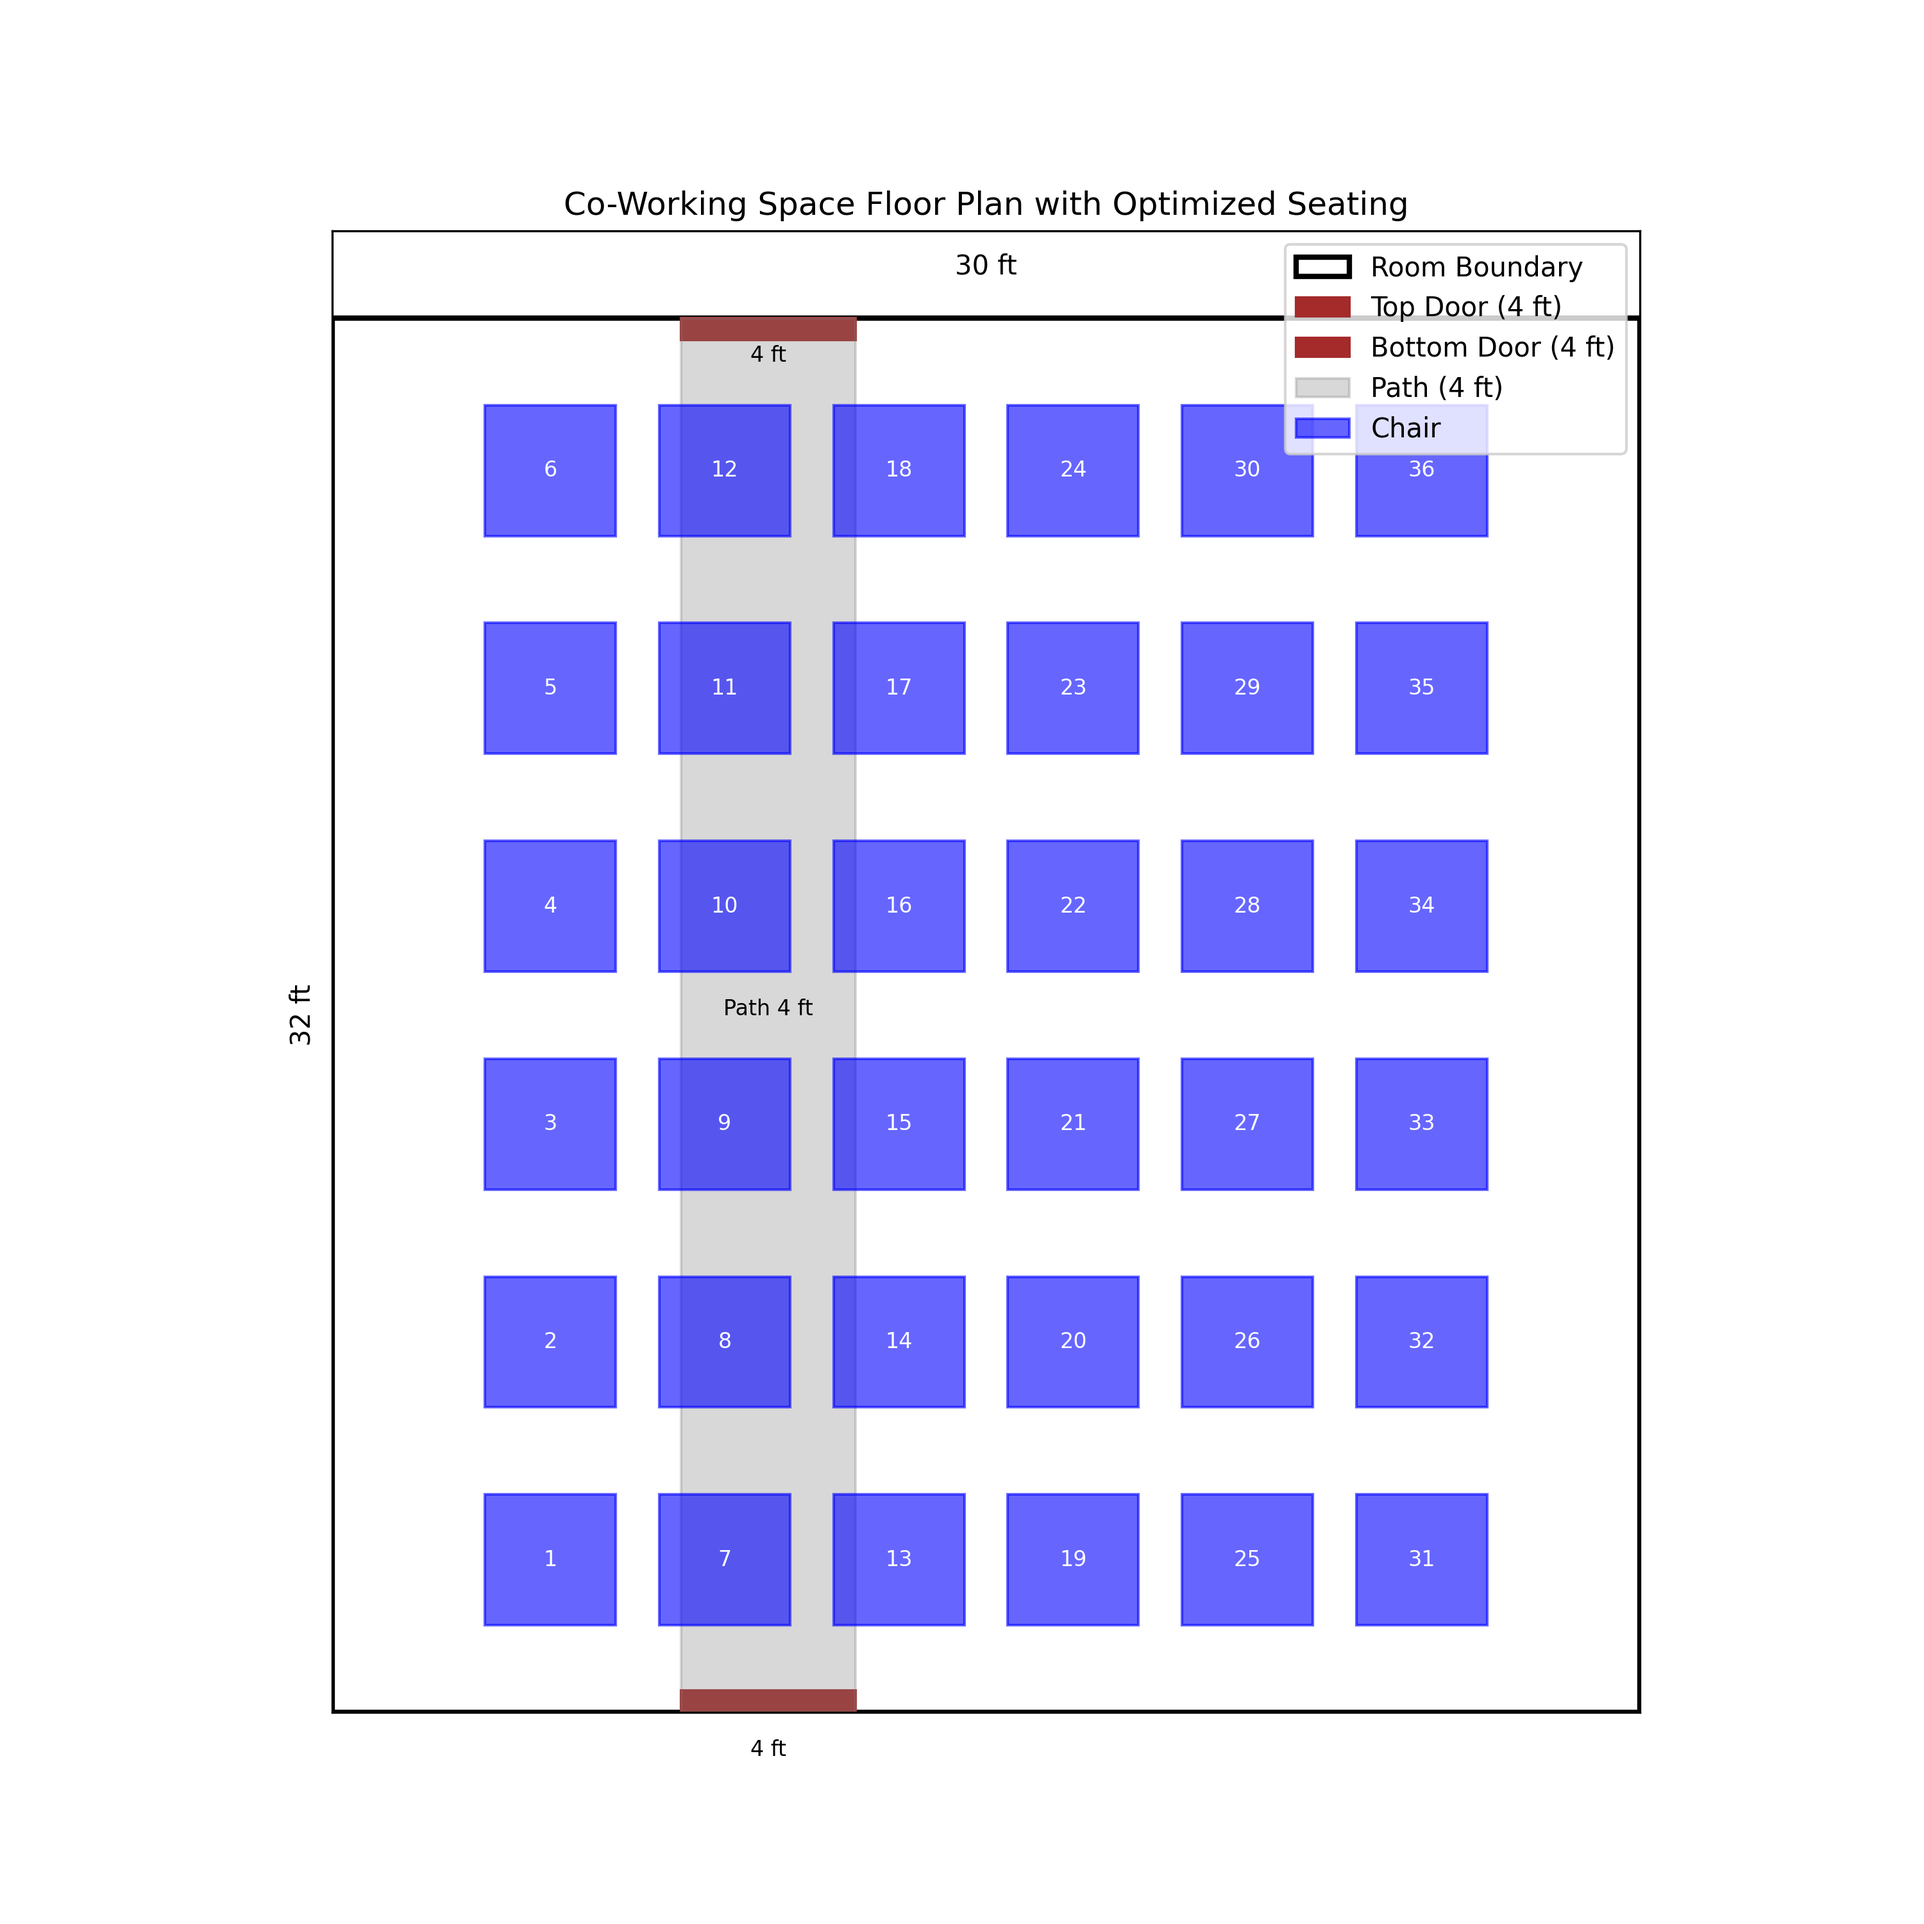
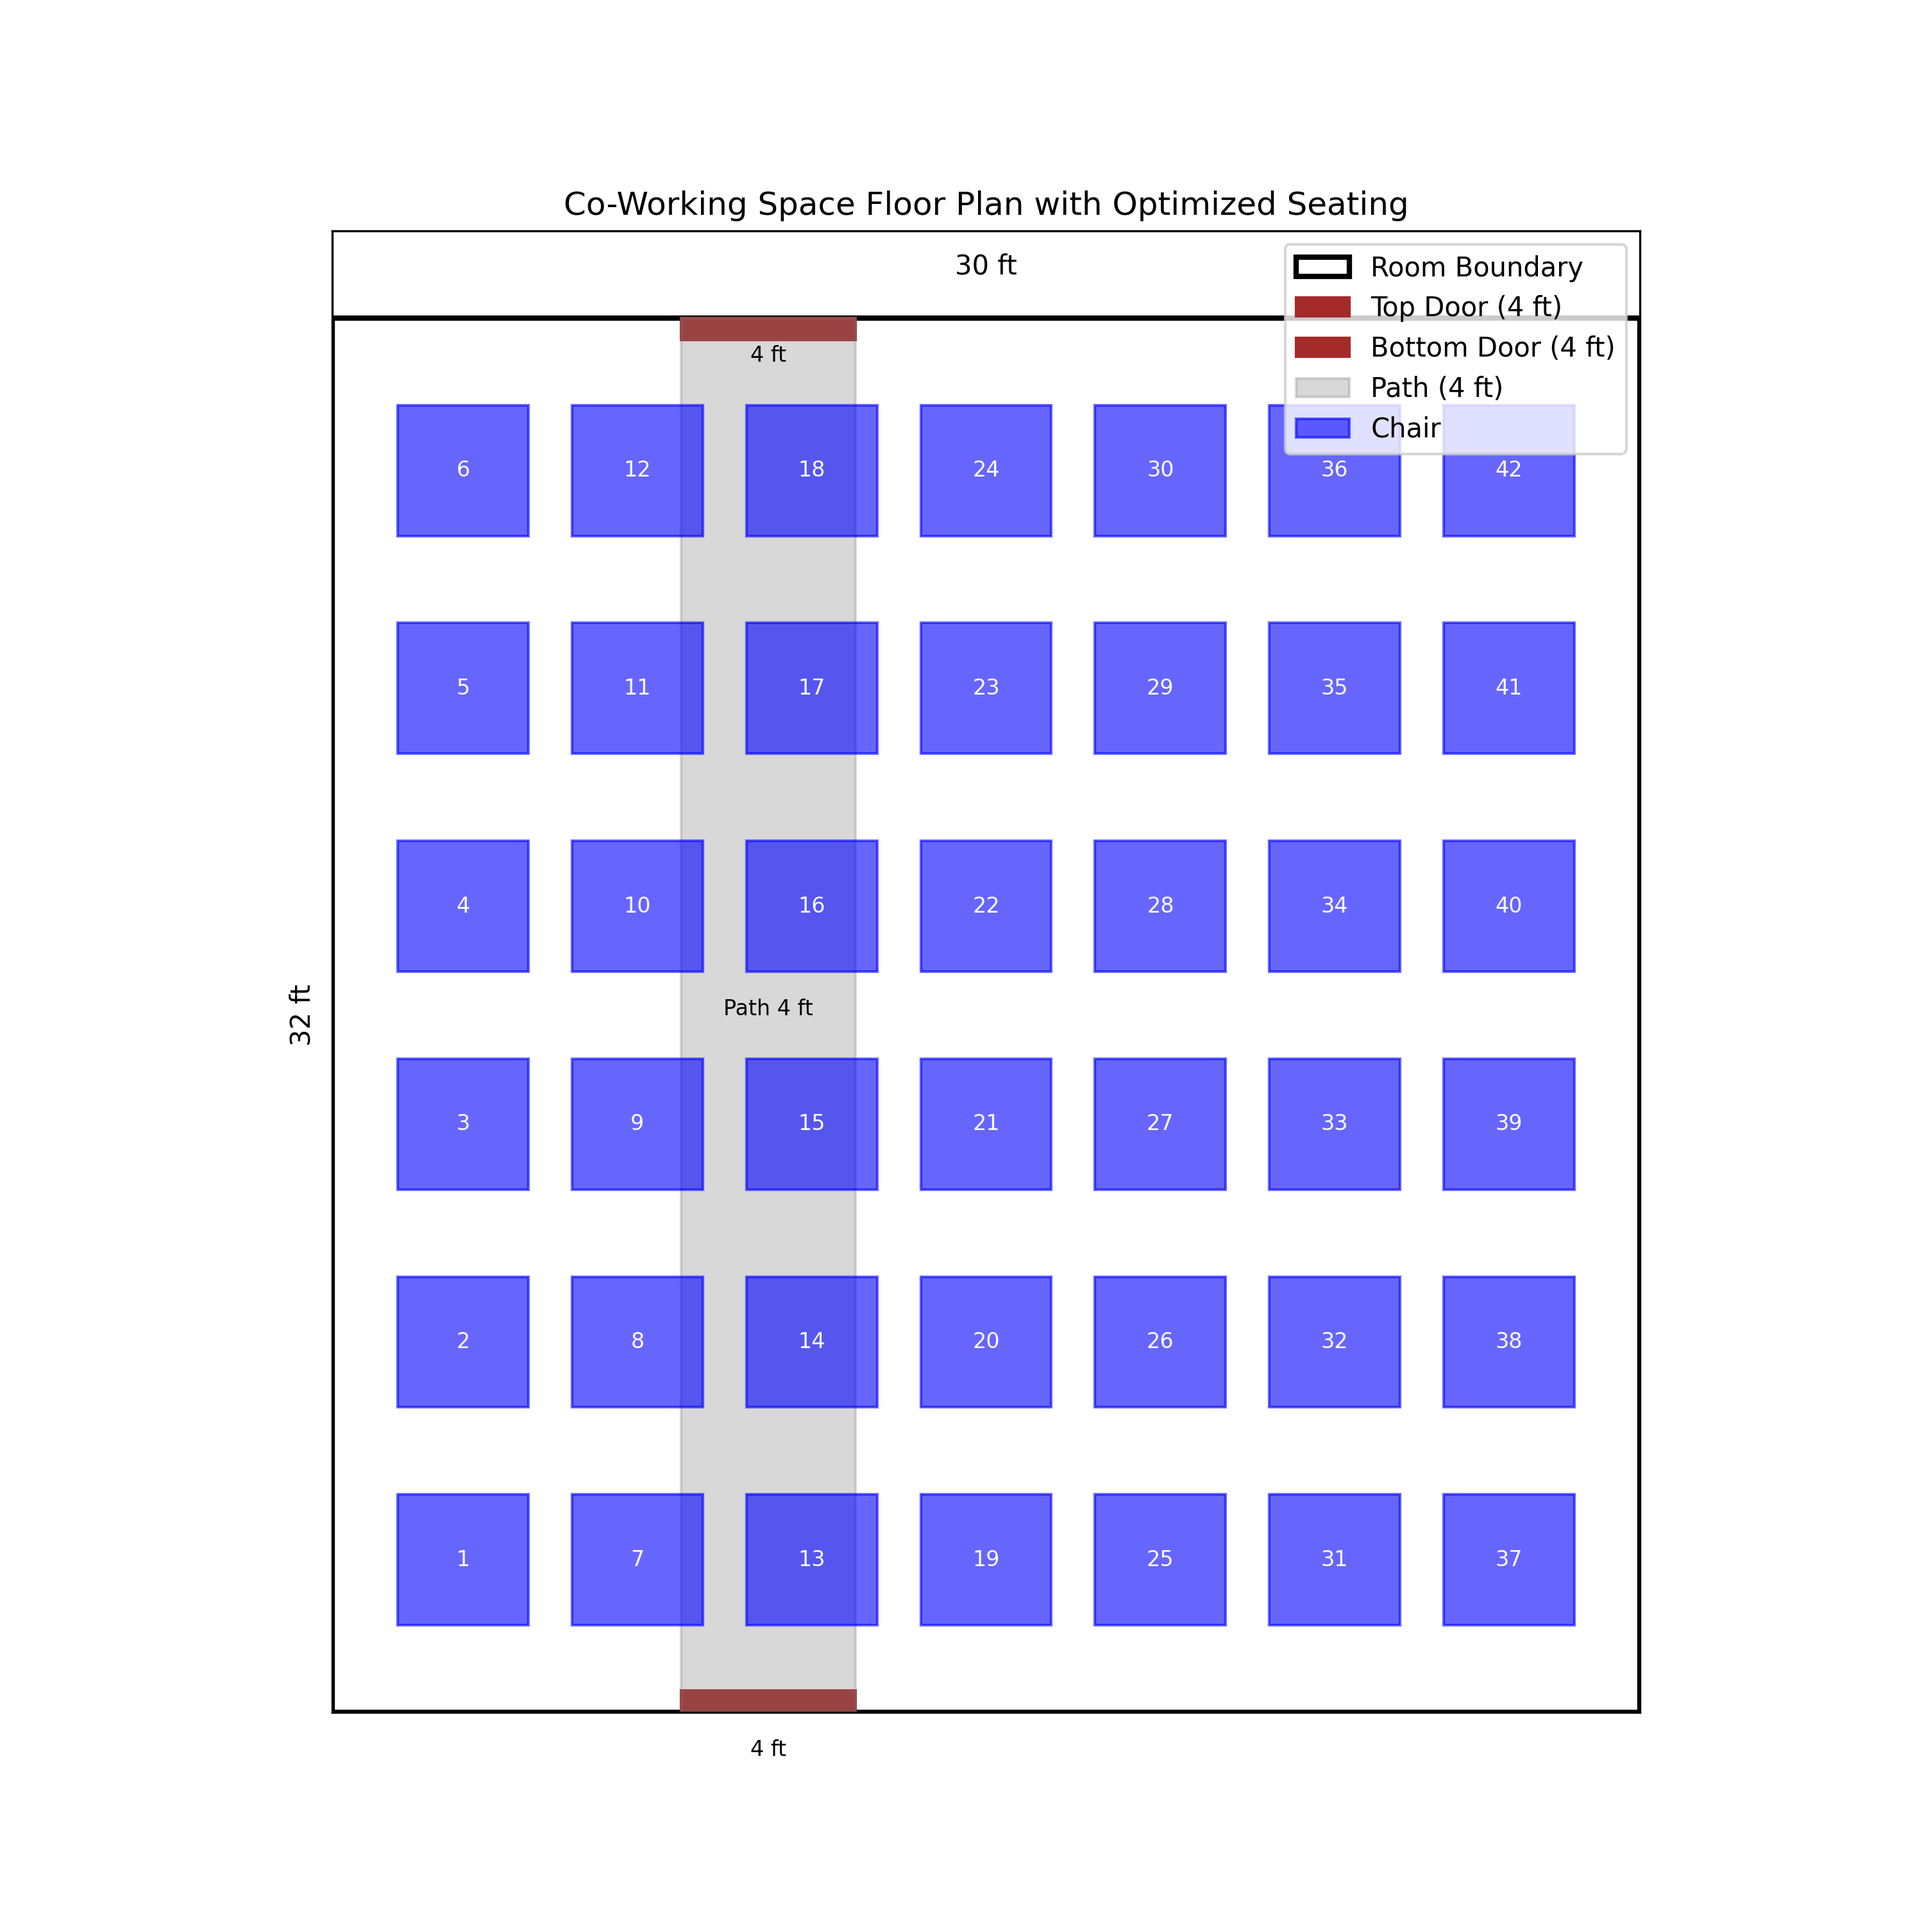
sample workspace is there

diff --git a/sample.py b/sample.py
@@ -12,13 +12,13 @@ def create_floor_plan(save_path="coworking_space_floor_plan.png"):
     seat_spacing_y = 2  # Vertical spacing between chairs
 
     # Compute available area for seating
-    total_seat_width = width  # Allowing seats in path
+    total_seat_width = width - path_width  # Excluding path width
     total_seat_height = height  # Full height available
 
     x_offset = seat_size + seat_spacing_x
     y_offset = seat_size + seat_spacing_y
-    num_seats_x = total_seat_width // x_offset  # Number of seats per row with spacing
-    num_seats_y = total_seat_height // y_offset  # Number of seats per column with spacing
+    num_seats_x = (width - 2) // x_offset  # Number of seats per row with spacing
+    num_seats_y = (height - 2) // y_offset  # Number of seats per column with spacing
 
     # Calculate starting position to center the seats
     start_x = (width - (num_seats_x * x_offset - seat_spacing_x)) / 2
@@ -34,17 +34,19 @@ def create_floor_plan(save_path="coworking_space_floor_plan.png"):
     ax.add_patch(patches.Rectangle((door_position, height - 0.5), door_width, 0.5, fill=True, color='brown', label="Top Door (4 ft)"))
     ax.add_patch(patches.Rectangle((door_position, 0), door_width, 0.5, fill=True, color='brown', label="Bottom Door (4 ft)"))
     
-    # Draw path (Chairs can be placed on it)
+    # Draw path
     ax.add_patch(patches.Rectangle((door_position + door_width/2 - path_width/2, 0), path_width, height, fill=True, color='gray', alpha=0.3, label="Path (4 ft)"))
     
-    # Place seats in the best optimized and centered way, including in the path
+    # Place seats in the best optimized and centered way
     chair_count = 1
     for i in range(int(num_seats_x)):
         for j in range(int(num_seats_y)):
             seat_x, seat_y = start_x + i * x_offset, start_y + j * y_offset
-            ax.add_patch(patches.Rectangle((seat_x, seat_y), seat_size, seat_size, fill=True, color='blue', alpha=0.6, label="Chair" if chair_count == 1 else ""))
-            ax.text(seat_x + seat_size/2, seat_y + seat_size/2, str(chair_count), fontsize=8, ha='center', va='center', color='white')
-            chair_count += 1
+            # Ensure seats do not overlap with the path
+            if not (door_position <= seat_x <= door_position + path_width - seat_size):
+                ax.add_patch(patches.Rectangle((seat_x, seat_y), seat_size, seat_size, fill=True, color='blue', alpha=0.6, label="Chair" if chair_count == 1 else ""))
+                ax.text(seat_x + seat_size/2, seat_y + seat_size/2, str(chair_count), fontsize=8, ha='center', va='center', color='white')
+                chair_count += 1
     
     # Add dimensions
     ax.text(15, height + 1, "30 ft", fontsize=10, ha='center')
@@ -59,7 +61,7 @@ def create_floor_plan(save_path="coworking_space_floor_plan.png"):
     plt.xticks([])
     plt.yticks([])
     plt.gca().set_aspect('equal', adjustable='box')
-    plt.title("Co-Working Space Floor Plan with Optimized Seating (Including Path)")
+    plt.title("Co-Working Space Floor Plan with Optimized Seating")
     plt.legend()
     
     # Save the image
